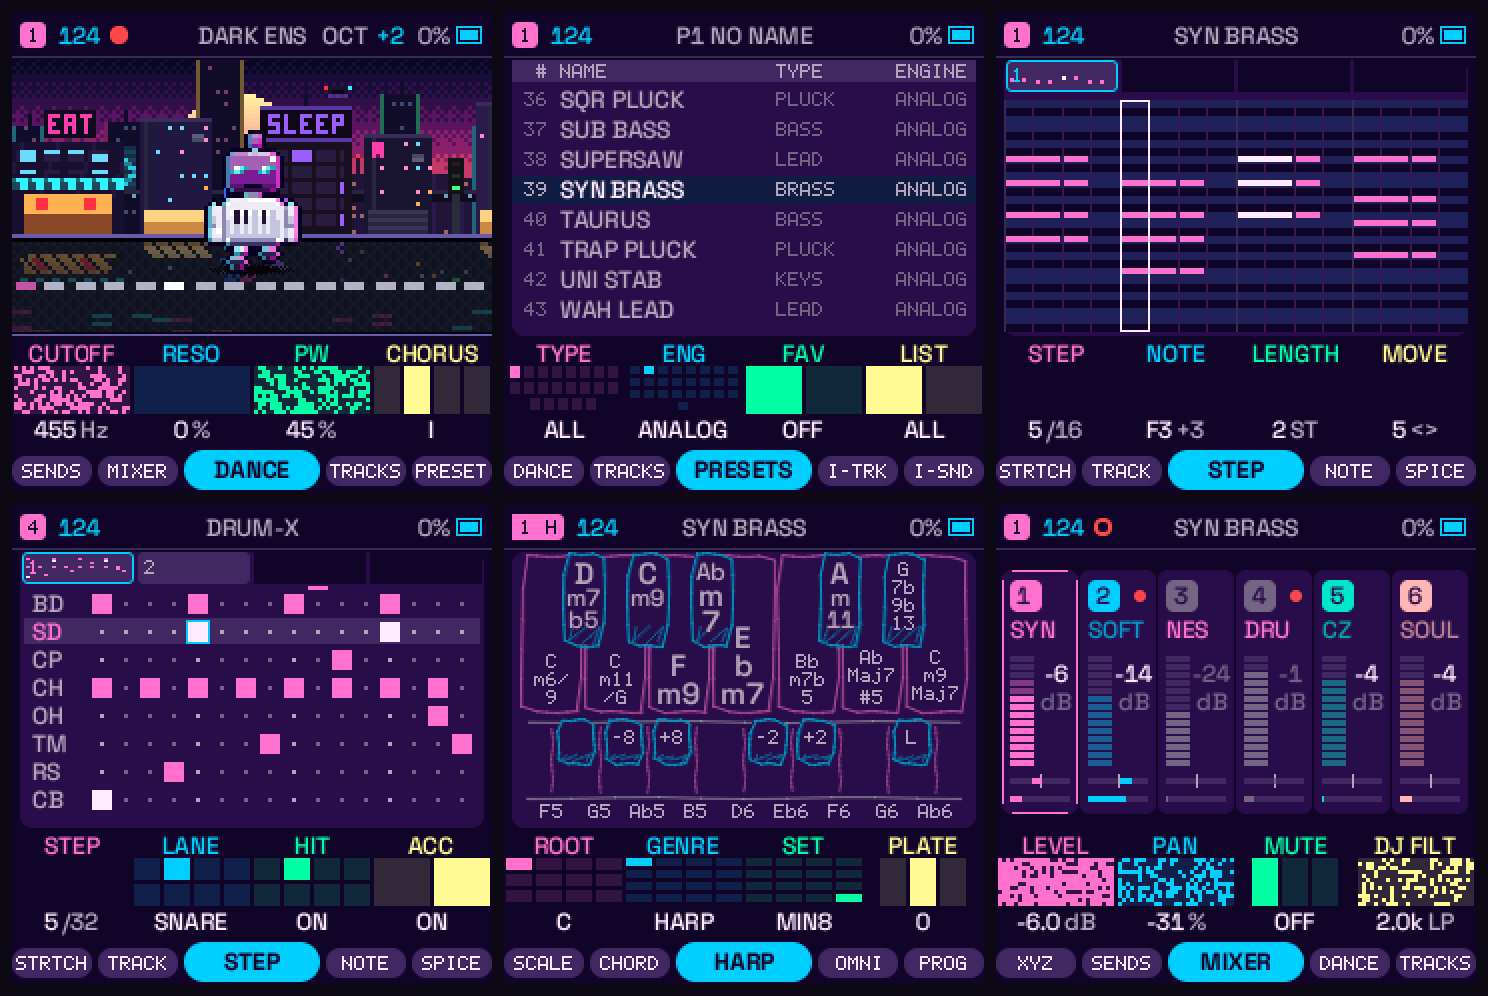
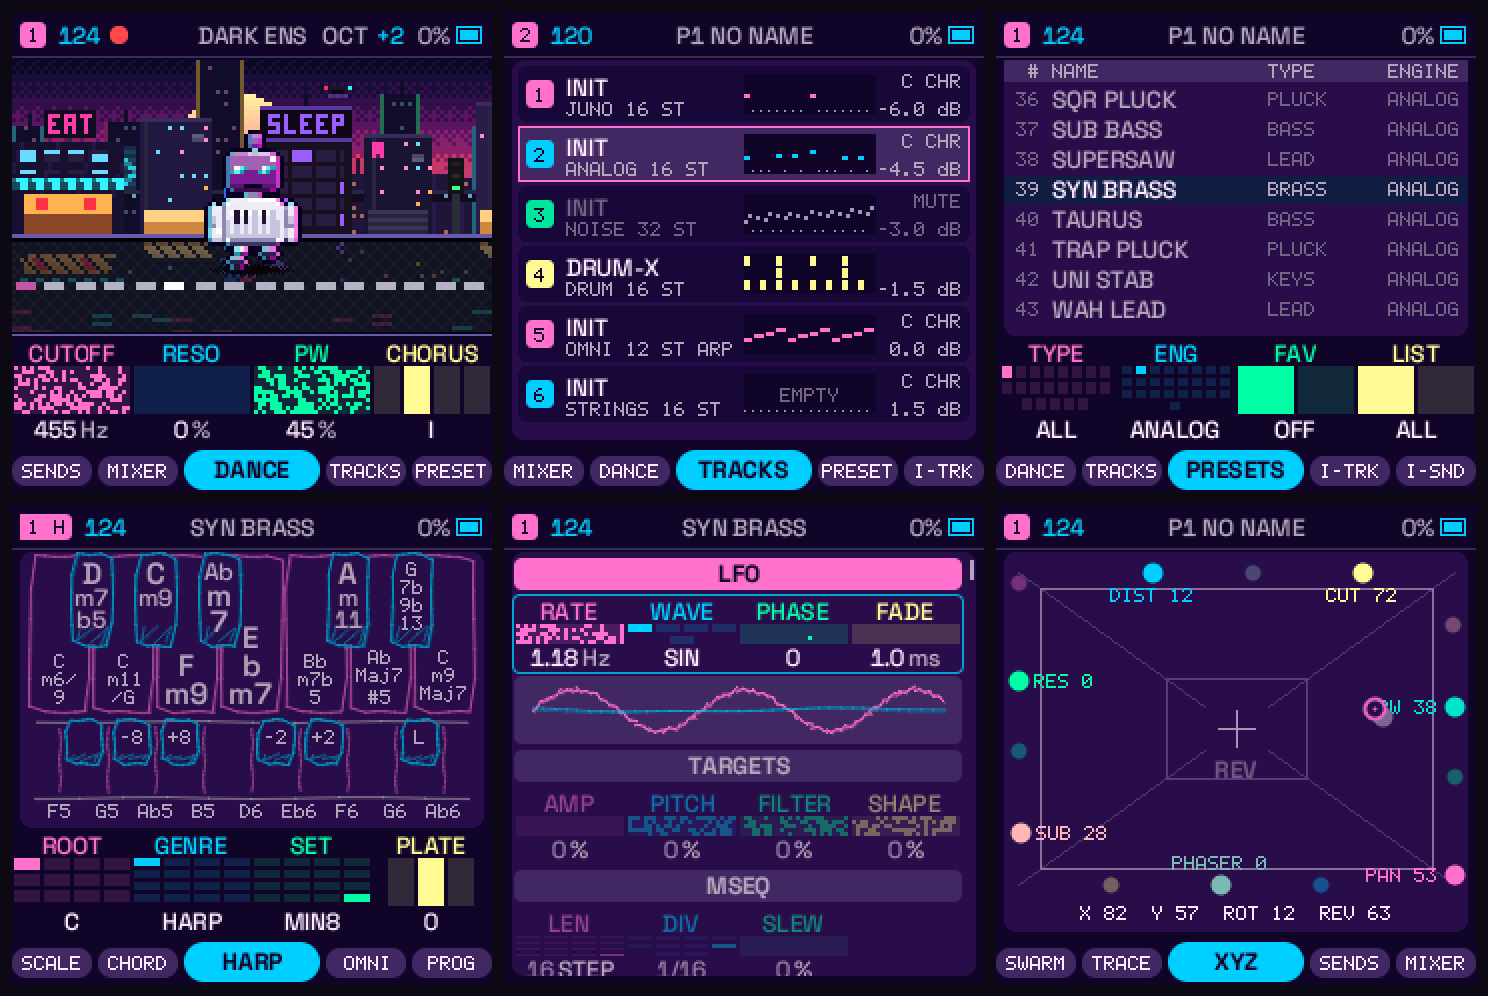
Hero picture: the HOME robot, TRACKS, PRESETS, HARP (SCL), LFO and XYZ screens (was HOME, presets, piano roll, drum grid, HARP, mixer); README and front-page alt text

diff --git a/web/index_site.html b/web/index_site.html
@@ -150,7 +150,7 @@
   </div>
   <p class="notice"><b>A development release (v0.1.0).</b> This is custom firmware: install it at your own risk. Your music is
     backed up before the installer writes anything, and the way back to the official firmware is one click.</p>
-  <img class="banner" src="img/hero.png" alt="Yehnah on the FM-1's screen: HOME, the sound list, the piano roll, the drum grid, the HARP chord keys and the mixer" width="1488" height="996">
+  <img class="banner" src="img/hero.png" alt="Yehnah on the FM-1's screen: the HOME robot, TRACKS, the sound list, the HARP chord keys, an LFO and the XYZ pad" width="1488" height="996">
 
   <section id="what">
     <h2>What it does</h2>

diff --git a/tools/gen_readme_images.py b/tools/gen_readme_images.py
@@ -38,6 +38,6 @@ SINGLE = {   # file: render name
 }
 for fn, n in SINGLE.items():
     save(shot(n), fn + ".png")
-grid(["home", "presets", "roll_chords", "drum", "key_harp", "mixer"], 3, "hero.png")
+grid(["home", "tracks", "presets", "key_harp", "lfo", "xy"], 3, "hero.png")
 grid(["home"] * 9, 5, "themes.png", pals=["VAP DK", "VAP LT", "NOIRE", "DUSK", "CREAM", "POP", "YELLOW", "RED", "PURPLE"], scale=1)   # (the nine palettes the firmware has: tools/gen_ui_palettes.py)
 print(len(list(OUT.glob("*.png"))), "images in", OUT)

diff --git a/README.md b/README.md
@@ -19,7 +19,7 @@
   <a href="https://github.com/Mello-D/yehnah/issues">Report a bug</a>
 </p>
 
-![Yehnah on the FM-1's screen: HOME, the sound list, the piano roll, the drum grid, the HARP chord keys and the mixer](docs/img/hero.png)
+![Yehnah on the FM-1's screen: the HOME robot, TRACKS, the sound list, the HARP chord keys, an LFO and the XYZ pad](docs/img/hero.png)
 
 Yehnah turns the FM-1 into a six-track instrument: twenty-five synthesis engines with over 700 factory sounds, drum
 machines that morph between two sides of a kit, a 64-step sequencer with chords and parameter locks, songs made of
